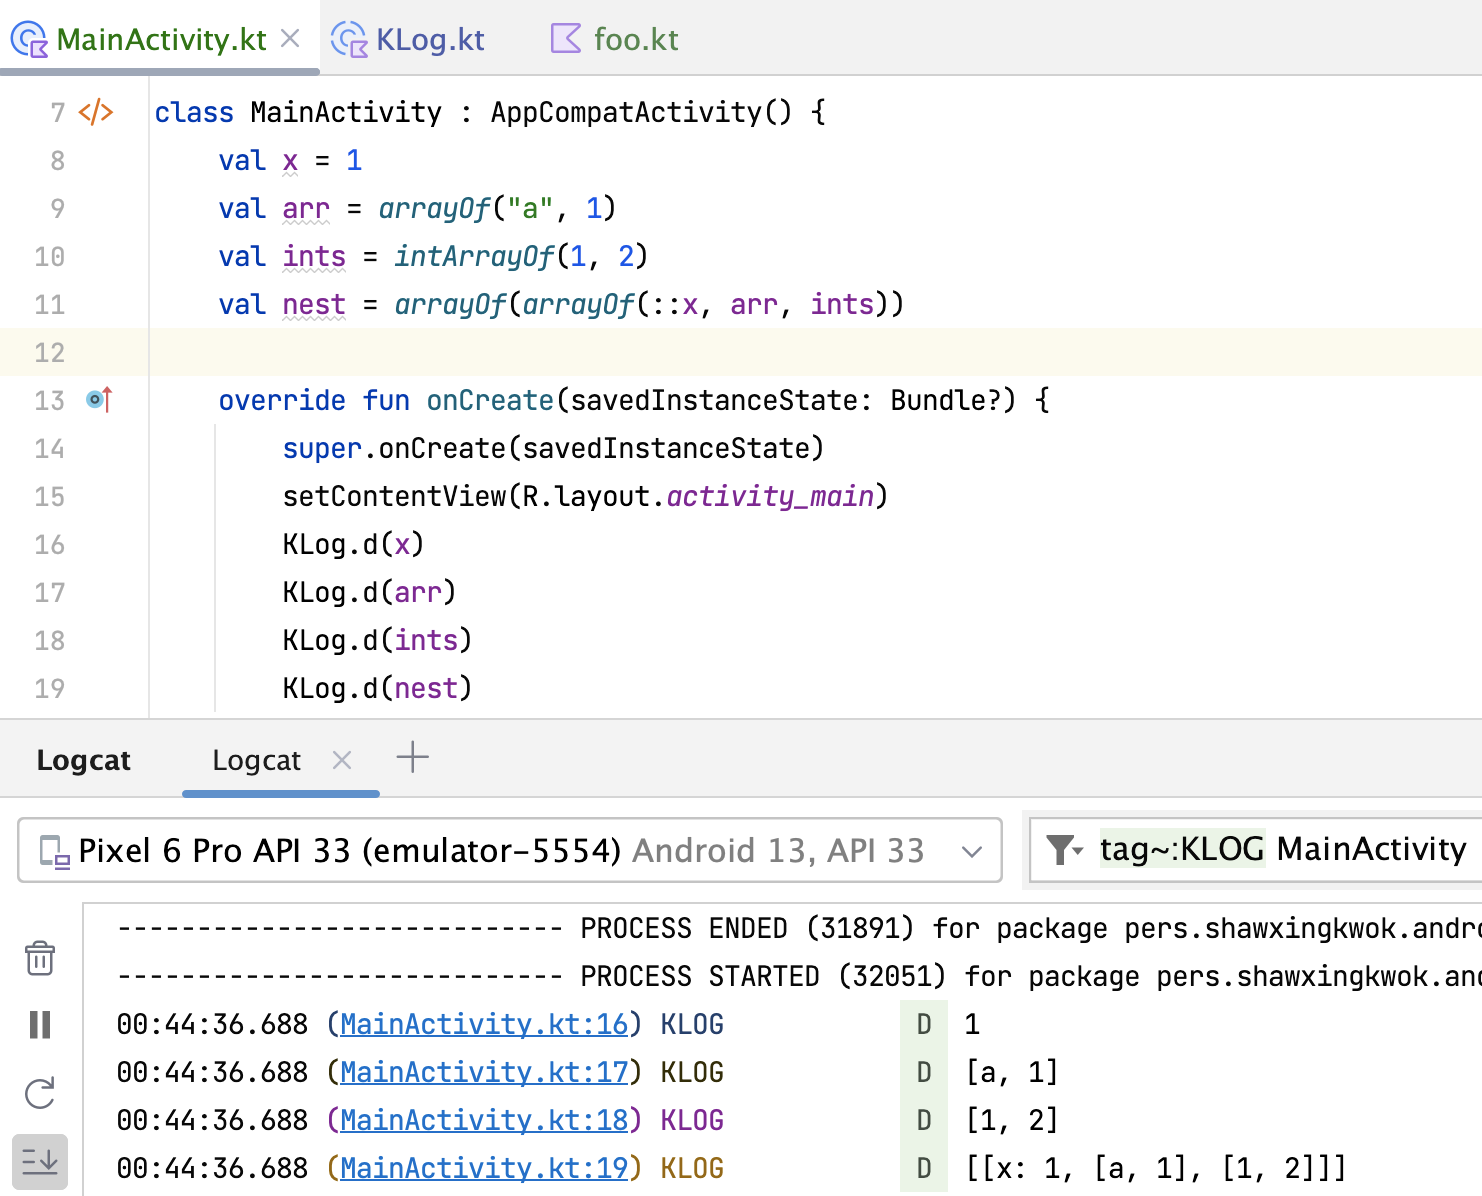
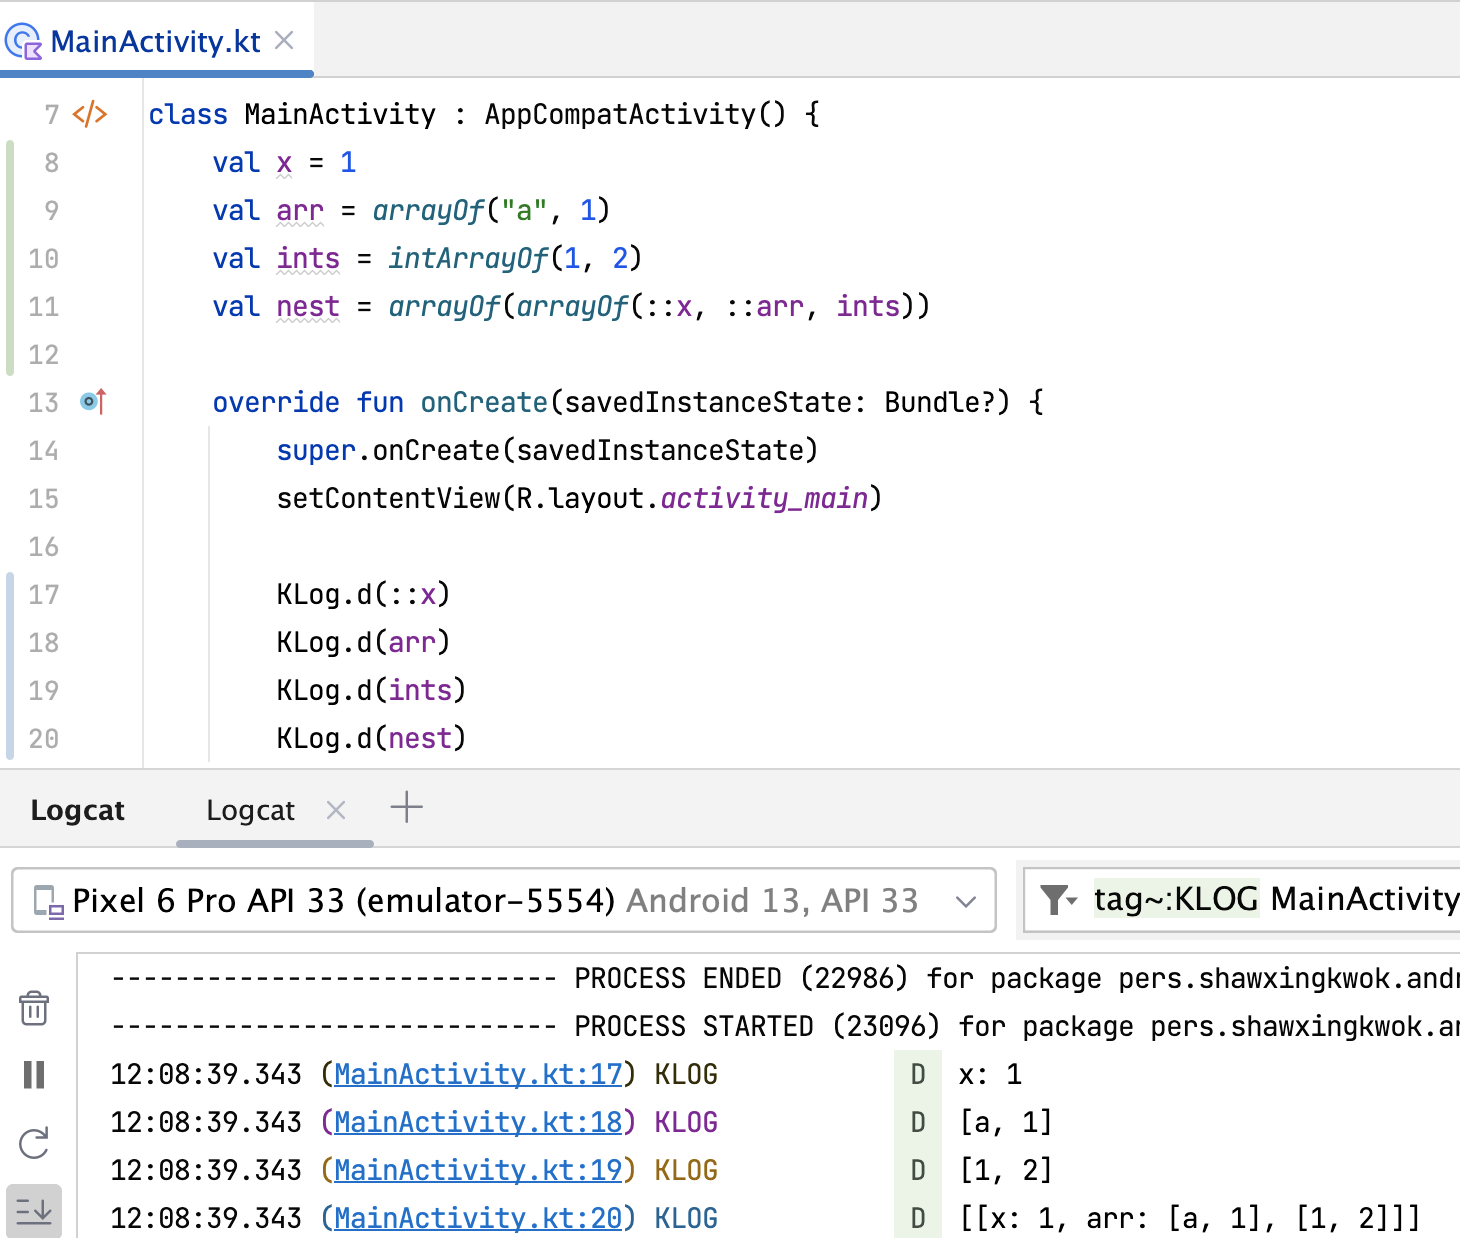
+

Changed region(s): [[0.0, 0.3094, 1.0, 1.0], [0.0, 0.0, 0.6164, 0.3403], [0.339, 0.0, 0.5548, 0.1237]]

diff --git a/layouts/shortcodes/codeImg.html b/layouts/shortcodes/codeImg.html
@@ -1,3 +1,3 @@
-<div style="border:1px solid black; padding-left:10px; padding-top:10px;">
+<div style="border:1px solid black; padding-left:10px; padding-top:10px; padding-right:10px;">
     <img src={{ .Get 0 }} alt="" />
 </div>

diff --git a/content/docs/android/util-core/_index.md b/content/docs/android/util-core/_index.md
@@ -15,71 +15,85 @@ and would be expanded with some small practical tools in the future.
 
 # AppContext
 It is the static `applicationContext` for you to get anywhere. In this way, your 
-`Database`, `DAO`, `SharedPreferences`,`DataStore` and some other tools can be easy
-singleton object classes, of which the profit is much more important than the 
-additional resource memory. 
+`Database`, `DAO`, `SharedPreferences`, `DataStore` and some other tools could be static, 
+of which the profit is much more considerable than the additional resource memory. 
 
 {{< codeImg appcontext.png >}}
 
 # KLog
-- Practical and concise.
-- Logs are intelligently cancelled after released 
-- Little config
-- Light-weight (jar size)
+- Tag is global and has a link.
+- Logs are intelligently cancelled after released. 
+- Light-weight. (jar size)
 
-## General
-The type of `obj` is `Any?`.
+## Direct
+`obj`'s type is `Any?` and is printed out with its `toString`.
 
 {{< codeImg klog.png >}}
 
 ## Other levels
-`wtf` is disabled because it's better replaced with an exception.
-{{< codeImg klog_otherLevels.png >}} 
+{{< codeImg klog_otherLevels.png >}}
+`KLog.wtf` is not provided. In my opinion, you'd better throw an error if fatal or `KLog.e` if not.
 
-## Custom tag prefix
+## More args
+### Tag prefix
 {{< codeImg klog_prefix.png >}} {{< codeImg klog_prefix_.png >}}
+
+### Throwable
+This is assignable only in `KLog.e`.
+{{< codeImg klog_tr.png >}}
 
 ## Avoid tags too long
 Make `id`, `tagPrefix` short, and avoid the file name too long, or else the link would fail.
 {{< codeImg klog_linkFail.png>}}
 
 ## Special types
-`KProperty0`, `Array` and basic type arrays are specially handled.
+Useful `KProperty0`, and common `Array`, basic type arrays are specially handled, since their `toString` 
+don't tell values. 
 {{< codeImg klog_specialTypes.png >}}
 
-{{< hint info >}} 
+## Automatic cancel
+{{< codeImg klog_src.png >}}
+
+Logs on level `V`, `D` and `I` are cancelled when not `onDebug`. 
+
 All logs from this library are automatically cancelled when the app is released.
-{{< /hint >}}
 
 ## In open source android library
-Set a log object class. 
-```kotlin
-internal object MLog : KLog("LIB", BuildConfig.DEBUG) 
-```
-Set `id` with an abbreviated all-caps library name.("LIB" here)
+Set an **internal** log object class. 
+{{< codeImg mlog.png >}}
+
+`id` should be an abbreviated all-caps library name for being easily distinguished from other tags.
 {{< hint danger >}}
 Remember to build the module if there is no directory 'build', or else you probably import `BuildConfig` from another
 library.
 {{< /hint >}}
 
-compared to above logs in 'Informal learning project'
-- tag changed.
-- logs on level `VERBOSE`, `DEBUG` and `INFO` are undone when the library is released.
+Effect
+{{< codeImg mlog_.png >}}
 
-## In app
-1. Set an abstract log class in the basic/common module with the abbreviated application name. 
-("FB" here)
-    ```kotlin
-    abstract class FBLog(id: String, onDebug: Boolean) : KLog("$id-FB", onDebug)
-    ```
+## In each app submodule
+Set a log class extended from `KLog.InApp`. Here supposes in the `database` module.
+{{< codeImg mlog_app.png >}}
 
-2. Set an **internal** log class in each submodule. Here supposes in the `Database` module. 
-    ```kotlin
-    internal object MLog : FBLog("DB", BuildConfig.DEBUG)
-    ```
+Effect 
+{{< codeImg mlog_app_.png >}}
 
-3. Use as below
+{{< hint info >}}
+`tag~:APP` in the logcat could exclude logs from foreign libraries. 
+{{< /hint >}}
 
-## Custom
+## Extend
+Source code.
+{{< codeImg klog_expand_src.png >}}
+
+Extend as this.
+{{< codeImg klog_expand_sample.png >}}
+
+{{< hint danger >}}
+`Thread.stackTrace` in `log` is easily disturbed. Never call `log` indirectly like `super...` or set defaults for 
+your function parameters.
+{{< /hint >}}
+
+Or you could reference my concise `fun log`, `KLog` and design yourself.
 
 # <a href="https://github.com/ShawxingKwok/AndroidUtil" target="_blank">GitHub repo</a>
